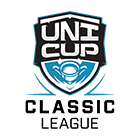
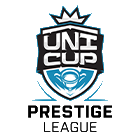
toPrestige

diff --git a/src/HUD/MatchBar/WinIndicator.tsx b/src/HUD/MatchBar/WinIndicator.tsx
@@ -1,7 +1,7 @@
 import React from 'react';
 import { Team } from 'csgogsi-socket';
 import TeamLogo from './TeamLogo';
-import ucLogo from '../../assets/ucClassic.png';
+import ucLogo from '../../assets/ucPrestige.png';
 
 
 export default class WinAnnouncement extends React.Component<{ team: Team | null, show: boolean }> {
@@ -11,7 +11,7 @@ export default class WinAnnouncement extends React.Component<{ team: Team | null
         return <div className={`win_text ${show ? 'show' : ''} ${team.orientation} ${team.side}`}>
             <div className="winnerLogo"><TeamLogo team={team} /></div>
             <span><div className="teamName">{team.name}</div></span><span>Vyhráva Kolo!</span>
-            <div className="ucLogo"><img src={ucLogo}/></div>
+            <div className="ucLogo"><img src={ucLogo} alt="Logo"/></div>
             </div>
     }
 }

diff --git a/src/HUD/Players/observed.scss b/src/HUD/Players/observed.scss
@@ -183,8 +183,8 @@
         width: 140px;
         height: 140px;
         img {
-            -webkit-mask-image: linear-gradient(to top, transparent 5%, black 65%);
-            mask-image: linear-gradient(to top, transparent 5%, black 65%);
+            -webkit-mask-image: linear-gradient(to top, transparent 1%, black 30%);
+            mask-image: linear-gradient(to top, transparent 1%, black 30%);
         }
     }
     .avatar img{

diff --git a/src/HUD/MatchBar/matchbar.scss b/src/HUD/MatchBar/matchbar.scss
@@ -191,7 +191,7 @@
 		flex-direction: row;
 		width: 77px;
 		height: 75px;
-		align-items: end;
+		align-items: flex-end;
 		justify-content: center;
 		font-weight: 900;
 		font-size: 45px;
